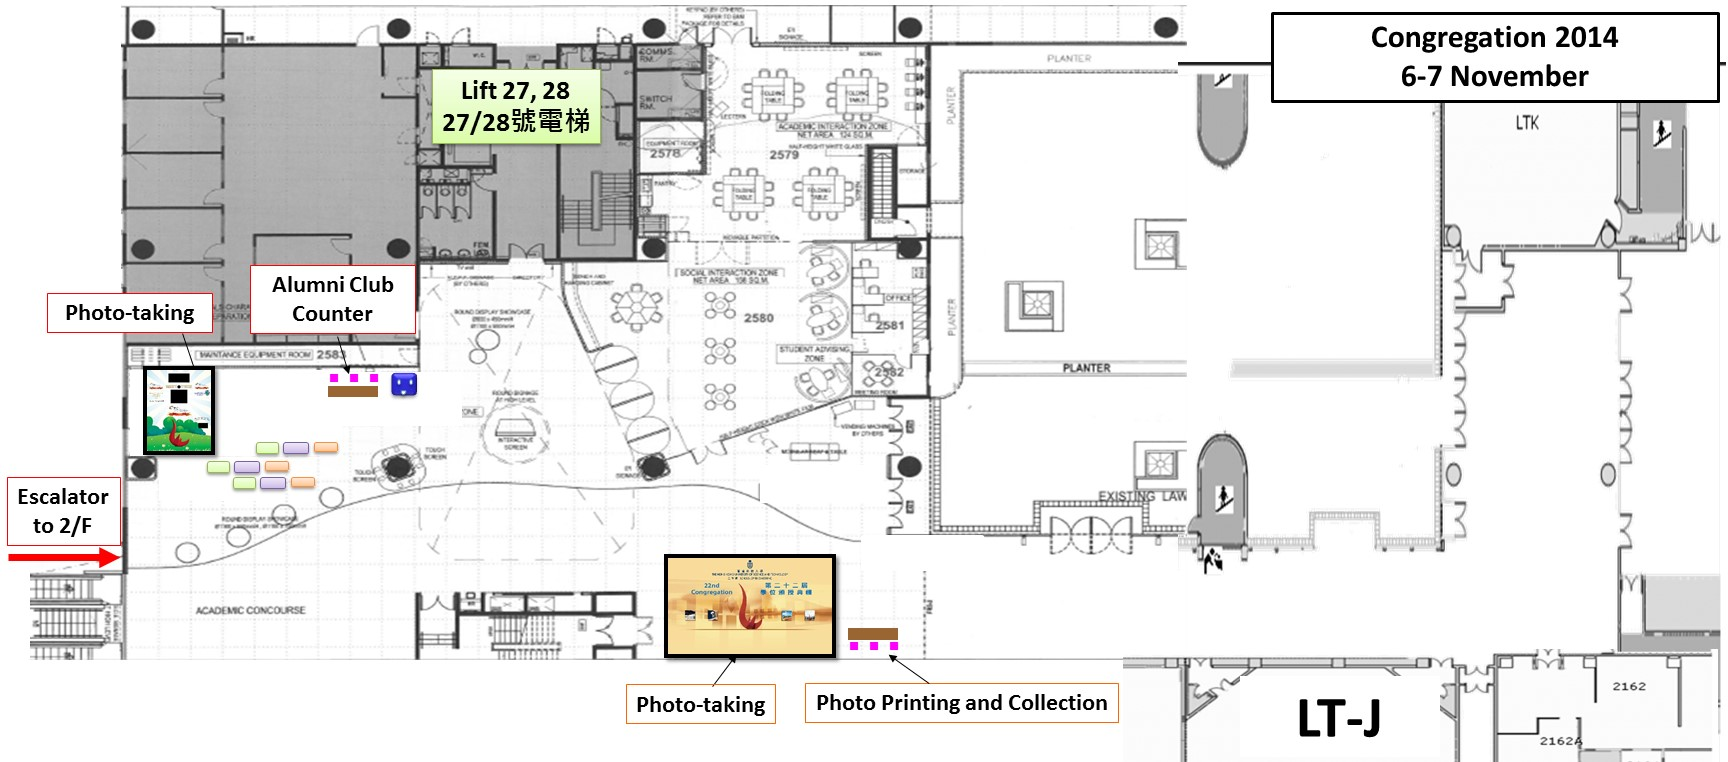
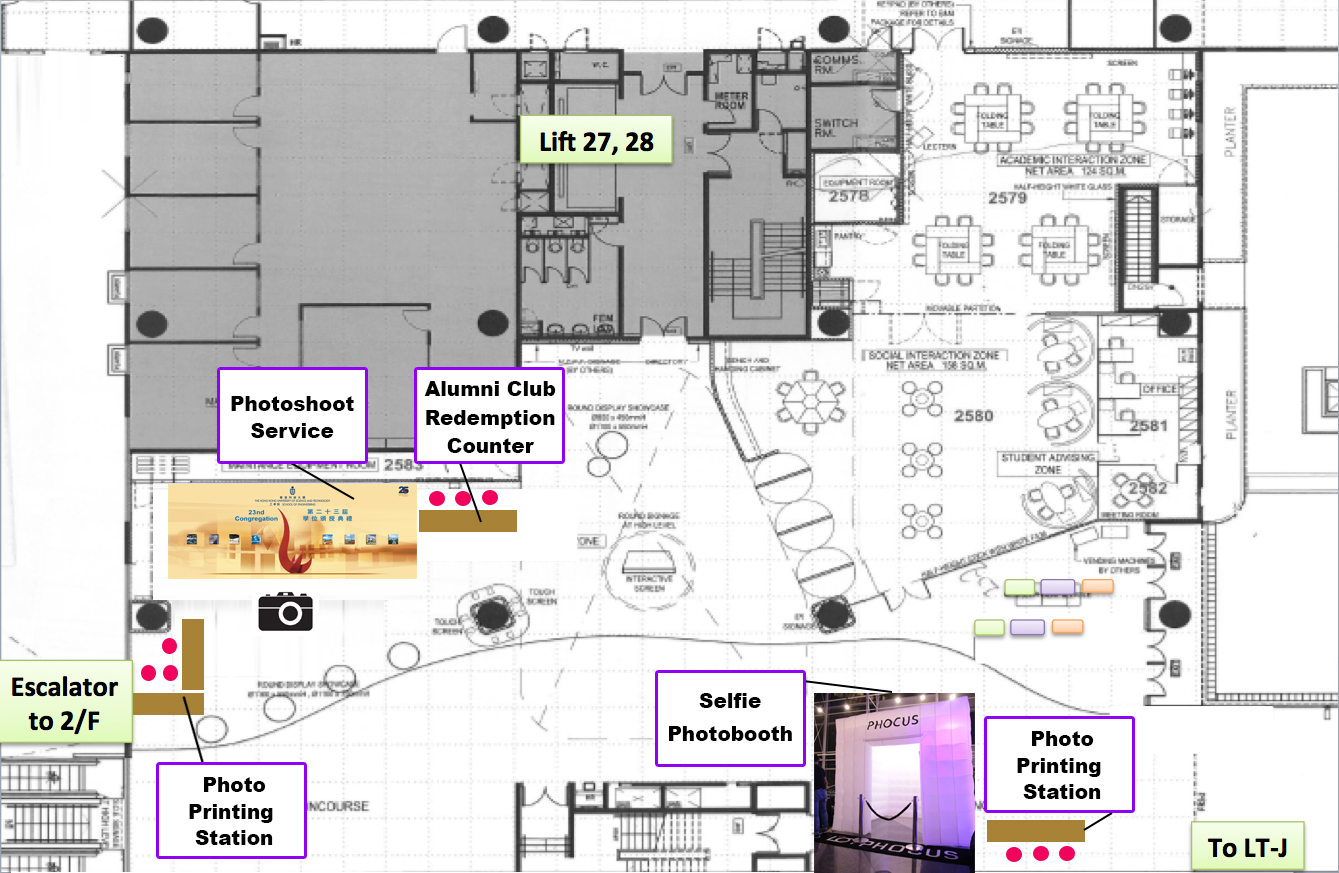
2015 update

diff --git a/index.html b/index.html
@@ -1,163 +1,144 @@
 <!DOCTYPE html>
 <html>
-  <head>
+<head>
     <meta charset="utf-8">
     <meta http-equiv="X-UA-Compatible" content="IE=edge">
     <meta name="viewport" content="width=device-width, initial-scale=1">
-    <title></title>
+    <title>SENG Congregation 2015</title>
 
     <!-- Bootstrap -->
     <link href="css/bootstrap.css" rel="stylesheet" />
     <!-- Custom css -->
     <link href="css/alumni.css" rel="stylesheet" />
-    
+
     <!-- HTML5 Shim and Respond.js IE8 support of HTML5 elements and media queries -->
     <!-- WARNING: Respond.js doesn't work if you view the page via file:// -->
     <!--[if lt IE 9]>
-	<script src="https://oss.maxcdn.com/html5shiv/3.7.2/html5shiv.min.js"></script>
-	<script src="https://oss.maxcdn.com/respond/1.4.2/respond.min.js"></script>
-	<![endif]-->
-  </head>
-  <body>
+    <script src="https://oss.maxcdn.com/html5shiv/3.7.2/html5shiv.min.js"></script>
+    <script src="https://oss.maxcdn.com/respond/1.4.2/respond.min.js"></script>
+    <![endif]-->
+</head>
+<body>
     <div class="container-fluid lessRedBird">
-      <header class="row redBird">
-      </header>
-      <div id="header1" class="row jumbotron">
-	<div class="bottomUp">
-	  <h1>Celebrating Success</h1>
-	  <p>with your dearest friends, schoolmates and families…</p>
-	</div>
-      </div>
+        <header class="row redBird">
+        </header>
+        <div id="header1" class="row jumbotron">
+            <div class="bottomUp">
+                <h1>Celebrating Success</h1>
+                <p>with your dearest friends, schoolmates and families…</p>
+            </div>
+        </div>
 
-      <div id="header2" class="row jumbotron">
-	<div class="bottomUp">
-	  <h1>Celebrating Success</h1>
-	  <p>with your dearest friends, schoolmates and families…</p>
-	</div>
-      </div>
-      
-      <div class="headerPad"></div>
+        <div id="header2" class="row jumbotron">
+            <div class="bottomUp">
+                <h1>Celebrating Success</h1>
+                <p>with your dearest friends, schoolmates and families…</p>
+            </div>
+        </div>
 
-      <div class="container">
-	<div class="well letter">
-	  <p>Dearest Fresh Graduate Engineers,</p>
- 
-	  <p>Congratulations for being one of the graduates in the 22nd Congregation Ceremony!   As a member of the SENG community, we have the mission not only to provide you with a great experience when you were a student, but we also hope to accompany you  throughout the years ahead.  We have prepared a surprise to make this congregation more meaningful, yet fun-filled.  You will be offered 2 free Graduation-themed photos from our designated photo-taking booths, with your loved ones - family and friends.   Also, we would like to extend our warm invitation to you to be a member of the SENG Alumni Club.  </p>
-	  
-	  <p>The photo booths are located in the Engineering Commons.  We wish these photos would represent a milestone captivating you and your dearest buddies’ hard works over the past few years and recall good old memories when looking at it in future.</p>
-	  
-	  <p>Of course, these photos don't mean the end of friendships and fellowship between you and your friends, not to mention the connection with HKUST School of Engineering!  To extend our warm welcome and once again congratulate you on your graduation, we would like to offer you a new platform to stay in touch - SENG Alumni Club.  Interested graduates may provide your personal information here.  You have no obligation but to enjoy expanding your network for social and career growth in the years to come.</p>
- 
-	  <p>Although the phototaking service schedule might not suit yours, we still encourage you to stay connected through filling in the form.  Should you have any queries, feel free to contact Vicky of the Dean’s Office (E:egvicky@ust.hk, T: 2358 8446).</p>
- 
-	  <p>See you at the Congregation and have fun on that day!</p>
+        <div class="headerPad"></div>
 
-	  <p>Warmest Regards,<br />
-	    Communications and External Affairs Team<br />
-	    School of Engineering
-	  </p>
-	</div>
-      </div>
+        <div class="container">
+            <div class="row well lessRedBird">
+                <div class="col-md-6">
+                    <h2>Don't miss this chance!</h2>
+                    <dl>
+                        <dt>Date</dt>
+                        <dd>20<sup>th</sup> Nov, 2015</dd>
+                        <dt>Time</dt>
+                        <dd>Selfie Photobooth: 10 am - 4 pm</dd>
+                        <dd>Photoshoot service: 9 am - 5 pm</dd>
+                        <dt>Location</dt>
+                        <dd><h4>Engineering Commons</h4></dd>
+                        <dd>
+                            <a href="res/map.jpg" title="enlarge" target="_blank" style="cursor: zoom-in;">
+                                <img width="100%" src="res/map.jpg" />
+                            </a>
+                        </dd>
+                        <dd>* click to enlarge</dd>
+                    </dl>
+                </div>
 
-      <div class="container">
-	<div class="row well lessRedBird">
-	  <div class="col-md-6">
-	    <h2>Don't miss this chance!</h2>
-	    <dl>
-	      <dt>Time</dt>
-	      <dd>06<sup>th</sup> Nov, 9 am - 1 pm</dd>
-	      <dd>07<sup>th</sup> Nov, 12 noon - 4 pm</dd>
-	      <dt>Location</dt>
-	      <dd><h4>Engineering Commons</h4></dd>
-	      <dd>
-		<a href="res/map.jpg" title="enlarge" target="_blank" style="cursor: zoom-in;">
-		  <img width="100%" src="res/map.jpg" />
-		</a>
-	      </dd>
-	      <dd>* click to enlarge</dd>
-	    </dl>
-	  </div>
-	  
-	  <div class="col-md-6">
-	    <h2 style="margin-bottom: 1em">The sample</h2>
-	    <a href="res/sample.jpg" title="enlarge" target="_blank" style="cursor: zoom-in;">
-	      <img  width="100%" src="res/sample.jpg" />
-	    </a>
-	  </div>
-	</div>
-      </div>
+                <div class="col-md-6">
+                    <h2 style="margin-bottom: 1em">The sample</h2>
+                    <a href="res/sample.jpg" title="enlarge" target="_blank" style="cursor: zoom-in;">
+                        <img  width="100%" src="res/sample.jpg" />
+                    </a>
+                </div>
+            </div>
+        </div>
 
-      <div class="row redBird">
-	<div class="container" id="form">
-	  <div class="well redBird">
-	    <h2 class="formNarrative text-center">fill in the form to register</h2>
-	    <form role="form" action="https://docs.google.com/forms/d/1MWA-LMaQU5H8amhqQLdjGD3FX4OpPx7bd5cqJpMnH7c/formResponse" method="POST">
-	      <div class="row">
-		<div class="col-md-6">
-		  <div class="form-group">
-		    <label for="">Name*</label>
-		    <input type="text" class="form-control" name="entry.1879628911" id="" required="required" placeholder="Name">
-		  </div>
-		  <div class="form-group">
-		    <label for="">Email*</label>
-		    <input type="email" class="form-control" name="entry.1696563041" id="" required="required" placeholder="Email">
-		  </div>
-		  <div class="form-group">
-		    <label for="">Mobile*</label>
-		    <input type="tel" class="form-control" name="entry.573760235" id="" required="required" placeholder="Contact No.">
-		  </div>
-		</div>
-		<div class="col-md-6">
-		  <div class="form-group">
-		    <label for="">Company</label>
-		    <input type="text" class="form-control" name="entry.2103941884" id="" placeholder="Company Name">
-		  </div>
-		  <div class="form-group">
-		    <label for="">Position</label>
-		    <input type="text" class="form-control" name="entry.1589255921" id="" placeholder="Position">
-		  </div>
-		  <div class="form-group">
-		    <label for="">Department/Program*</label>
-		    <select class="form-control" name="entry.330899573">
-		      <option value="CBME">CBME</option>
-		      <option value="CBME-Dual">CBME (Dual)</option>
-		      <option value="CPEG">CPEG</option>
-		      <option value="CPEG-Dual">CPEG (Dual)</option>
-		      <option value="CIVIL">CIVIL</option>
-		      <option value="CIVIL-Dual">CIVIL (Dual)</option>
-		      <option value="CSE">CSE</option>
-		      <option value="CSE-Dual">CSE (Dual)</option>
-		      <option value="ECE">ECE</option>
-		      <option value="ECE-Dual">ECE (Dual)</option>
-		      <option value="IELM">IELM</option>
-		      <option value="IELM-Dual">IELM (Dual)</option>
-		      <option value="MAE">MAE</option>
-		      <option value="MAE-Dual">MAE (Dual)</option>
-		    </select>
-		  </div>
-		</div>
-		<div class="col-md-12">
-		  <div class="form-group">
-		    <button type="submit" class="btn btn-danger btn-block">Submit</button>
-		  </div>
-		</div>
-	      </div>
-	    </form>
-	  </div>
-	</div>
-      </div>
+        <div class="row redBird">
+            <div class="container" id="form">
+                <div class="well redBird">
+                    <h2 class="formNarrative text-center">Register now!</h2>
+                    <form role="form" action="https://docs.google.com/forms/d/1tS9ytZ14ckSZpy8_JeixWN4yBb3UX37DDP2n6h_RWVM/formResponse" method="POST">
+                        <div class="row">
+                            <div class="col-md-6">
+                                <div class="form-group">
+                                    <label for="">Name*</label>
+                                    <input type="text" class="form-control" name="entry.602519822" id="" required="required" placeholder="Name">
+                                </div>
+                                <div class="form-group">
+                                    <label for="">Email*</label>
+                                    <input type="email" class="form-control" name="entry.2051493268" id="" required="required" placeholder="Email">
+                                </div>
+                                <div class="form-group">
+                                    <label for="">Mobile*</label>
+                                    <input type="tel" class="form-control" name="entry.1146789995" id="" required="required" placeholder="Contact No.">
+                                </div>
+                            </div>
+                            <div class="col-md-6">
+                                <div class="form-group">
+                                    <label for="">Company</label>
+                                    <input type="text" class="form-control" name="entry.872408260" id="" placeholder="Company Name">
+                                </div>
+                                <div class="form-group">
+                                    <label for="">Position</label>
+                                    <input type="text" class="form-control" name="entry.1553614529" id="" placeholder="Position">
+                                </div>
+                                <div class="form-group">
+                                    <label for="">Department/Program*</label>
+                                    <select class="form-control" name="entry.540611934">
+                                        <option value="CBME">CBME</option>
+                                        <option value="CBME (Dual Degree)">CBME (Dual Degree)</option>
+                                        <option value="CPEG">CPEG</option>
+                                        <option value="CPEG (Dual Degree)">CPEG (Dual Degree)</option>
+                                        <option value="CIVIL">CIVIL</option>
+                                        <option value="CIVIL (Dual Degree)">CIVIL (Dual Degree)</option>
+                                        <option value="CSE">CSE</option>
+                                        <option value="CSE (Dual Degree)">CSE (Dual Degree)</option>
+                                        <option value="ECE">ECE</option>
+                                        <option value="ECE (Dual Degree)">ECE (Dual Degree)</option>
+                                        <option value="IELM">IELM</option>
+                                        <option value="IELM (Dual Degree)">IELM (Dual Degree)</option>
+                                        <option value="MAE">MAE</option>
+                                        <option value="MAE (Dual Degree)">MAE (Dual Degree)</option>
+                                    </select>
+                                </div>
+                            </div>
+                            <div class="col-md-12">
+                                <div class="form-group">
+                                    <button type="submit" class="btn btn-danger btn-block">Submit</button>
+                                </div>
+                            </div>
+                        </div>
+                    </form>
+                </div>
+            </div>
+        </div>
 
-      <footer class="row">
-	<div class="well">
-	  <div class="container">
-	    HKUST, School of Engineering
-	  </div>
-	</div>
-      </footer>
+        <footer class="row">
+            <div class="well">
+                <div class="container">
+                    HKUST, School of Engineering
+                </div>
+            </div>
+        </footer>
 
     </div>
-    
+
     <script src="js/jquery-1.11.1.min.js"></script>
     <script src="js/bootstrap.min.js"></script>
-  </body>
+</body>
 </html>

diff --git a/css/alumni.css b/css/alumni.css
@@ -1,16 +1,5 @@
 @import url(http://fonts.googleapis.com/css?family=Pacifico|Fondamento|Neucha);
 
-.letter {
-  background-color: #9C0000;
-  border-bottom: 2px #770000 solid;
-  border-radius: 2px;
-  border-right: 2px #770000 solid;
-  font-family: 'Neucha', cursive;
-  font-size: large;
-  letter-spacing: 1px;
-  margin-top: 2em;
-}
-
 .jumbotron {
   margin-bottom: 0;
   width: 100%;
@@ -23,11 +12,11 @@
 }
 
 .headerPad {
-  padding-top: 650px;
+  padding-top: 480px;
 }
 
 h1 {
-  font-family: 'proxima-nova', sans-serif;
+  font-family: "proxima-nova", sans-serif;
   text-transform: uppercase;
   font-weight: bold;
   letter-spacing: 2px;
@@ -40,7 +29,7 @@ h1 {
   background-position: center center;
   background-size: cover;
   height: 10px;
-  min-height: 650px;
+  min-height: 480px;
   transition: opacity 2s;
   -webkit-transition: opacity 2s;
   -webkit-animation: fading 12s infinite; /* Chrome, Safari, Opera */
@@ -70,7 +59,35 @@ h1 {
   background-position: center center;
   background-size: cover;
   height: 10px;
-  min-height: 650px;
+  min-height: 480px;
+  transition: opacity 2s;
+  -webkit-transition: opacity 2s;
+  -webkit-animation: fading2 12s infinite;
+  animation: fading2 12s infinite;
+}
+
+#header2 {
+  position: absolute;
+  top: 10px;
+  background-image: url(../res/bg3.jpg);
+  background-position: center center;
+  background-size: cover;
+  height: 10px;
+  min-height: 480px;
+  transition: opacity 2s;
+  -webkit-transition: opacity 2s;
+  -webkit-animation: fading2 12s infinite;
+  animation: fading2 12s infinite;
+}
+
+#header2 {
+  position: absolute;
+  top: 10px;
+  background-image: url(../res/bg4.jpg);
+  background-position: center center;
+  background-size: cover;
+  height: 10px;
+  min-height: 480px;
   transition: opacity 2s;
   -webkit-transition: opacity 2s;
   -webkit-animation: fading2 12s infinite;
@@ -116,14 +133,14 @@ header {
 }
 
 .formNarrative {
-  font-weight: lighter;
+  font-weight: 300;
 }
 
 .thanks {
   margin: auto;
   position: absolute;
   top: 0; left: 0; bottom: 0; right: 0;
-  width: 100%; 
+  width: 100%;
   height: 12em;
 }
 
